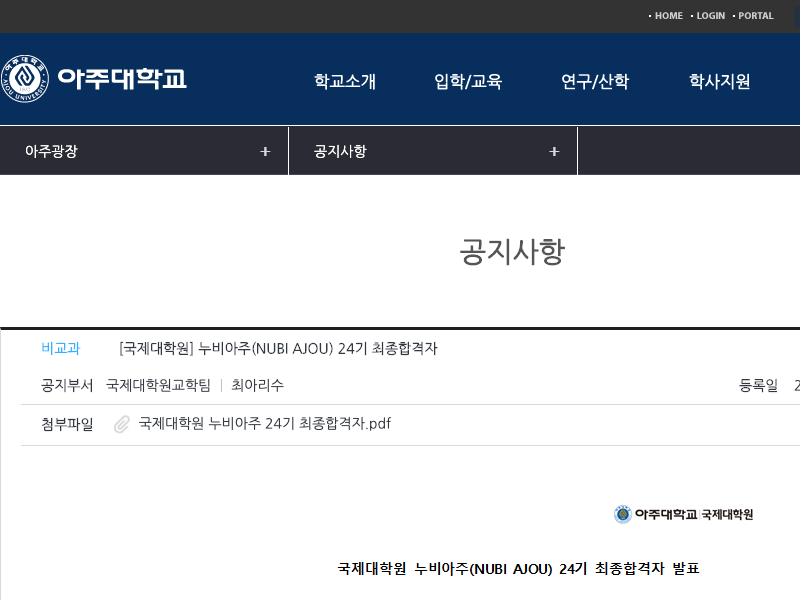
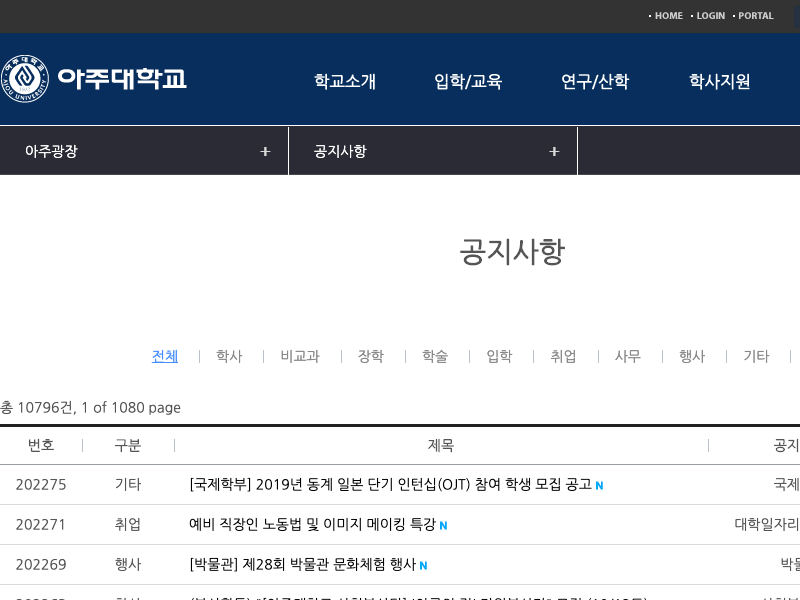
FEAT crawling ajou univ. notices in homepage
아주대 홈페이지의 공지사항을 긁어보기
  특: 리펙토링 전혀 안되어있음

diff --git a/main.js b/main.js
@@ -1,8 +1,61 @@
 const puppeteer = require("puppeteer");
+const { sleep, Noti } = require("./notice-utils");
+
 (async () => {
+  const notices = [];
+  let noticetrs = [];
+
   const browser = await puppeteer.launch();
   const page = await browser.newPage();
-  await page.goto('http://www.ajou.ac.kr/main/ajou/notice.jsp?mode=view&article_no=199089');
+  try{
+    await page.goto('http://www.ajou.ac.kr/main/ajou/notice.jsp');
+    console.log('Got Page');
+  } catch (e) {
+    throw new Error("Cannot get page");
+  }
+  
+  for (let i = 0; i<10; i++) {
+    notices.push(await page.waitFor(`#jwxe_main_content > div > div.list_wrap > table > tbody > tr:nth-child(${i+1}) > td.td.title_comm > a`));
+    noticetrs.push(await page.waitFor(`#jwxe_main_content > div > div.list_wrap > table > tbody > tr:nth-child(${i+1})`))
+    console.log(`Got ${i}th notice`);
+  }
+
+  let titles = [];
+  for (notice of notices) {
+    titles.push(await page.evaluate( notice => notice.textContent, notice));
+  }
+  titles = titles.map(title => title.replace(/\r?\t|\n|\r/g, ""));
+  titles = titles.map(title => title.trim());
+  console.log(titles);
+  let childrens = []
+  for (tr of noticetrs){
+    const child = await tr.$$('td');
+    const contents = [];
+    for (content of child) {
+      const textData = await page.evaluate(async content => content.textContent, content);
+      contents.push(textData);
+    }
+    childrens.push(contents);
+  }
+
+  const notiObjects = [];
+  let i = 0;
+  for (child of childrens) {
+    const newNoti = new Noti(child[0], child[1], child[3], child[4]);
+    newNoti.title = titles[i];
+    i++;
+    notiObjects.push(newNoti);
+  }
+  console.log(notiObjects);
+
+  // Promise.all(childrens).then(async results => {
+  //   childrens = results;
+  //   childrens.map(async child => {
+  //     return await child.map(async c => await page.evaluate(async c => await c.textContent, c));
+  //   });
+  //   console.log(childrens);
+  // });
+  // await child.forEach(async c => console.log(await page.evaluate(c => c.textContent, c)));
   await page.screenshot({path: 'test_notice_page.png'});
   await browser.close();
-})();
+})().catch(console.error);

diff --git a/notice-utils.js b/notice-utils.js
@@ -1,0 +1,16 @@
+const sleep = timeout => new Promise(resolve => setTimeout(resolve, timeout));
+
+class Noti {
+  constructor(id, category, source, date) {
+    this.id = id;
+    this.category = category;
+    this.title = '';
+    this.source = source;
+    this.date = date;
+  }
+}
+
+module.exports = {
+  sleep,
+  Noti,
+}
